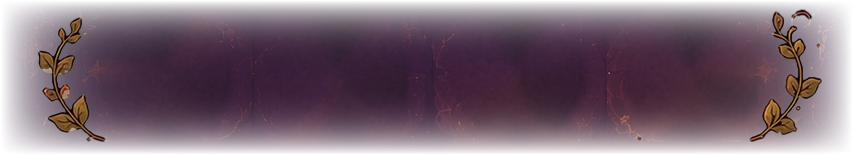
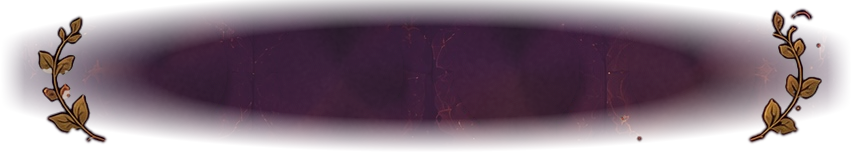
Home: bar texture fades out in a soft oval (home-11)
Claude-Session: https://claude.ai/code/session_01DZ2PcyBswD9UMmCJw8nEKc

diff --git a/index.html b/index.html
@@ -3,7 +3,7 @@
 <head>
 <meta charset="utf-8">
 <meta http-equiv="Cache-Control" content="no-cache">
-<meta name="app-version" content="home-10">
+<meta name="app-version" content="home-11">
 <meta name="viewport" content="width=device-width, initial-scale=1, viewport-fit=cover, user-scalable=no">
 <meta name="apple-mobile-web-app-capable" content="yes">
 <meta name="mobile-web-app-capable" content="yes">
@@ -691,7 +691,7 @@ document.getElementById('candleHit').addEventListener('click',()=>{const v=want?
 raf=requestAnimationFrame(frame);
 
 /* ---------- offline + auto-update ---------- */
-const APP_VERSION='home-10';
+const APP_VERSION='home-11';
 if('serviceWorker' in navigator)navigator.serviceWorker.register('./sw.js').catch(()=>{});
 async function checkUpdate(){
   try{
